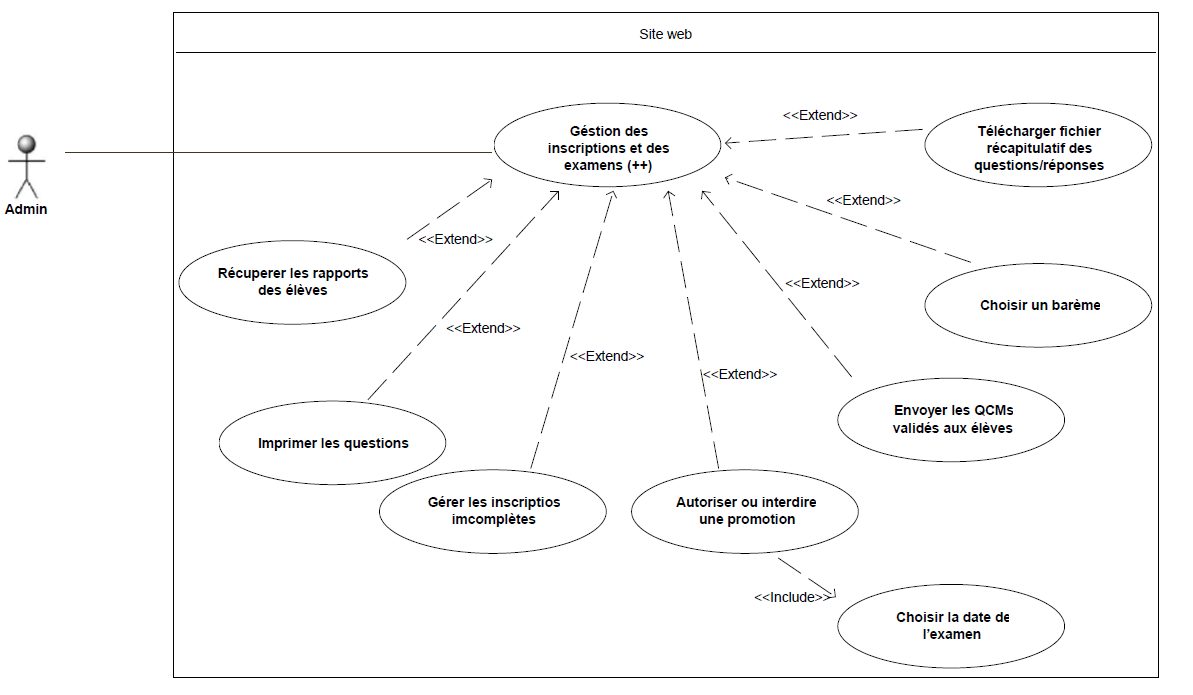
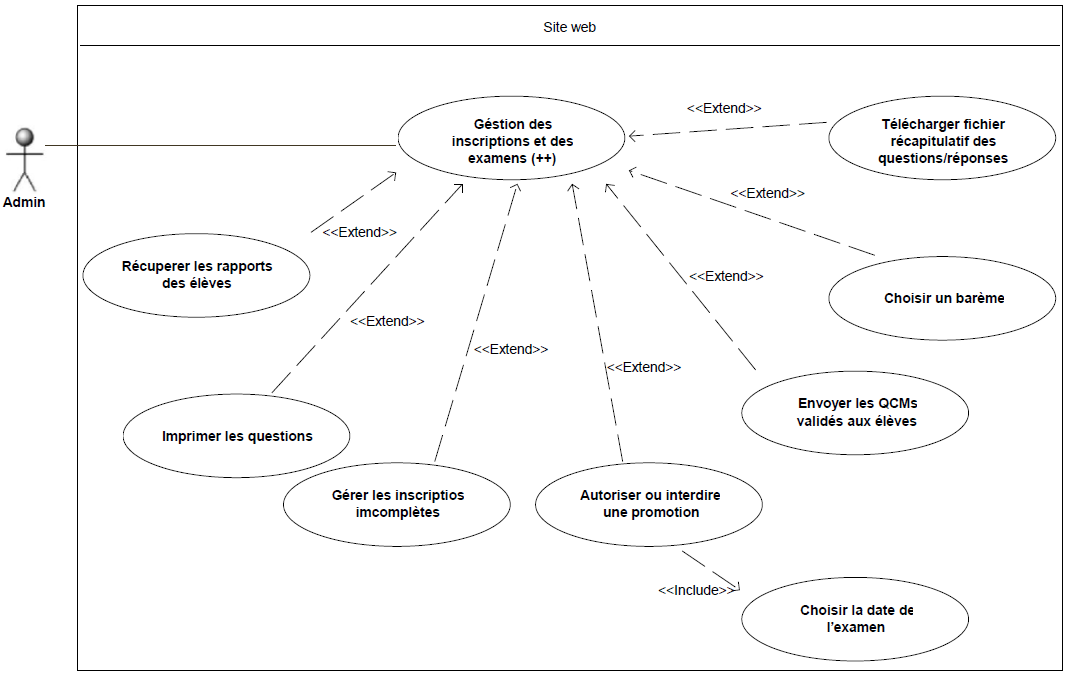
redimensionnement des diagrammes

diff --git a/report/uml.tex b/report/uml.tex
@@ -2,39 +2,38 @@
 
     \begin{figure}[h]
         \begin{center}
-            \includegraphics[scale=0.50]{images/uml/adminConference.png} 
+            \includegraphics[scale=0.75]{images/uml/adminMenu.png} 
         \end{center}
 
-        \caption{Admin - salles}
-        \label{Admin - salles}
+        \caption{Administrateur menu}
+        \label{a=Administrateur menu}
     \end{figure}
 
     \begin{figure}[h]
         \begin{center}
-            \includegraphics[scale=0.50]{images/uml/adminConfiguration.png} 
+            \includegraphics[scale=0.75]{images/uml/adminConference.png} 
         \end{center}
 
-        \caption{Admin - salles}
-        \label{Admin - salles}
+        \caption{Administrateur conference}
+        \label{Administrateur conference}
     \end{figure}
 
     \begin{figure}[h]
         \begin{center}
-            \includegraphics[scale=0.50]{images/uml/adminInscriptionsExamens.png} 
+            \includegraphics[scale=0.75]{images/uml/adminConfiguration.png} 
         \end{center}
 
-        \caption{Admin - salles}
-        \label{Admin - salles}
+        \caption{Administrateur configuration}
+        \label{Administrateur configuration}
     \end{figure}
-
 
     \begin{figure}[h]
         \begin{center}
-            \includegraphics[scale=0.50]{images/uml/adminMenu.png} 
+            \includegraphics[width=18cm,height=15cm, angle=90]{images/uml/adminInscriptionsExamens.png} 
         \end{center}
 
-        \caption{Admin - salles}
-        \label{Admin - salles}
+        \caption{Administrateur inscription}
+        \label{Administrateur inscription}
     \end{figure}
 
     \begin{figure}[h]
@@ -42,8 +41,8 @@
             \includegraphics[scale=0.50]{images/uml/adminPackages.png} 
         \end{center}
 
-        \caption{Admin - salles}
-        \label{Admin - salles}
+        \caption{Administrateur packages}
+        \label{Administrateur packages}
     \end{figure}
 
     \begin{figure}[h]
@@ -51,8 +50,8 @@
             \includegraphics[scale=0.50]{images/uml/adminQuestionsReponses.png} 
         \end{center}
 
-        \caption{Admin - salles}
-        \label{Admin - salles}
+        \caption{Administateur questions et réponses}
+        \label{Administateur questions et réponses}
     \end{figure}
 
     \begin{figure}[h]
@@ -60,8 +59,8 @@
             \includegraphics[scale=0.50]{images/uml/adminRAZ.png} 
         \end{center}
 
-        \caption{Admin - salles}
-        \label{Admin - salles}
+        \caption{Administateur remise à zéro}
+        \label{Administateur remise à zéro}
     \end{figure}
 
     \begin{figure}[h]
@@ -69,8 +68,8 @@
             \includegraphics[scale=0.50]{images/uml/adminSalles.png} 
         \end{center}
 
-        \caption{Admin - salles}
-        \label{Admin - salles}
+        \caption{Administrateur salles}
+        \label{Administrateur salles}
     \end{figure}
 
     \begin{figure}[h]
@@ -78,26 +77,8 @@
             \includegraphics[scale=0.50]{images/uml/adminStats.png} 
         \end{center}
 
-        \caption{Admin - salles}
-        \label{Admin - salles}
-    \end{figure}
-
-    \begin{figure}[h]
-        \begin{center}
-            \includegraphics[scale=0.50]{images/uml/etudiantMenuFinal.png} 
-        \end{center}
-
-        \caption{Admin - salles}
-        \label{Admin - salles}
-    \end{figure}
-
-    \begin{figure}[h]
-        \begin{center}
-            \includegraphics[scale=0.50]{images/uml/etudiantMenuInitial.png} 
-        \end{center}
-
-        \caption{Admin - salles}
-        \label{Admin - salles}
+        \caption{Administrateur statistiques}
+        \label{Administrateur statistiques}
     \end{figure}
 
     \begin{figure}[h]
@@ -105,6 +86,25 @@
             \includegraphics[scale=0.50]{images/uml/visiteurMenu.png} 
         \end{center}
 
-        \caption{Admin - salles}
-        \label{Admin - salles}
+        \caption{Visiteur menu}
+        \label{Visiteur menu}
     \end{figure}
+
+    \begin{figure}[h]
+        \begin{center}
+            \includegraphics[scale=0.50]{images/uml/etudiantMenuFinal.png} 
+        \end{center}
+
+        \caption{Etudiant menu final}
+        \label{Etudiant menu final}
+    \end{figure}
+
+    \begin{figure}[h]
+        \begin{center}
+            \includegraphics[scale=0.50]{images/uml/etudiantMenuInitial.png} 
+        \end{center}
+
+        \caption{Etudiant menu initial}
+        \label{Etudiant menu initial}
+    \end{figure}
+

diff --git a/report/conclusion.tex b/report/conclusion.tex
@@ -1,1 +1,2 @@
 \chapter{Conclusion}
+
